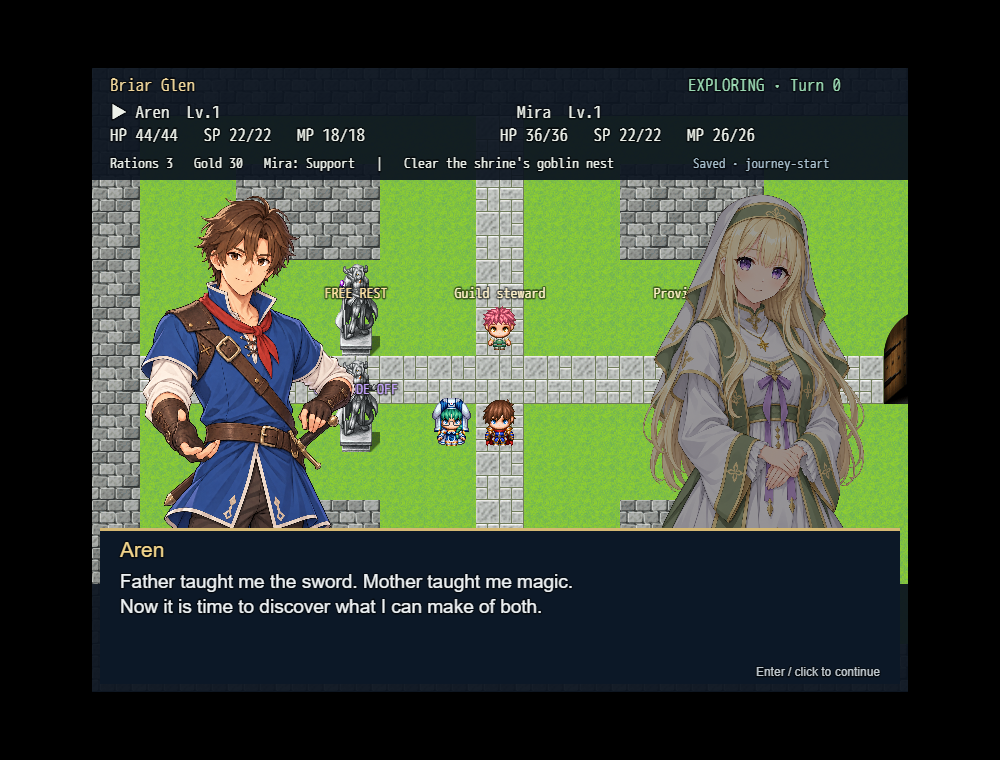
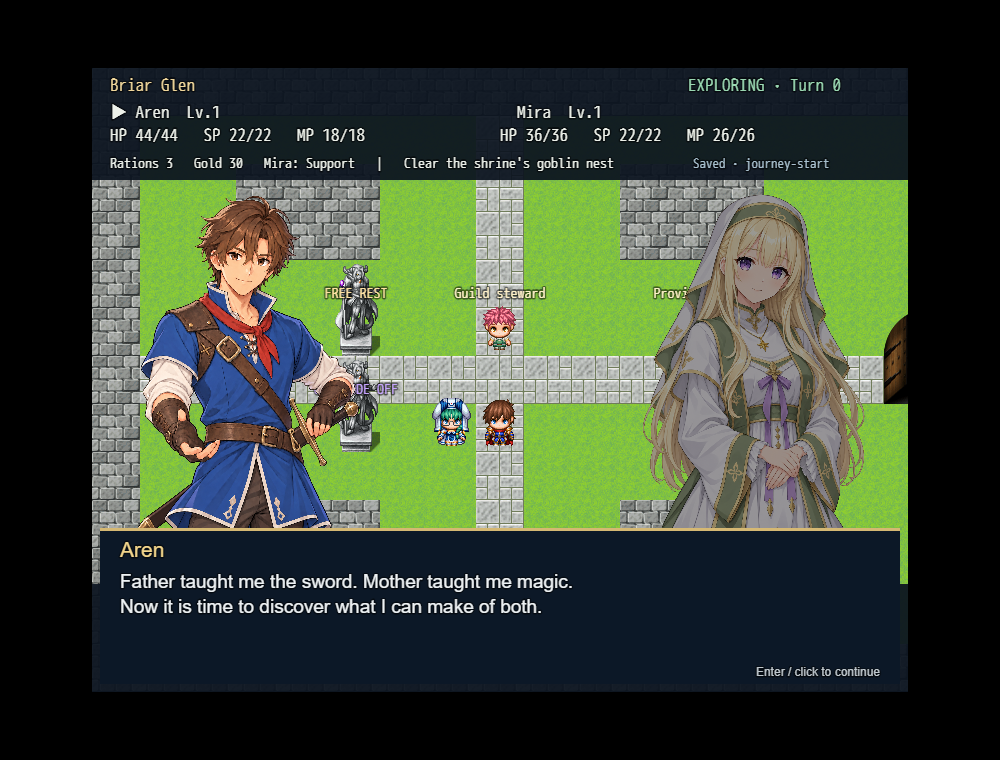
Use approved enlarged longsword portrait for Aren

diff --git a/src/js/plugins/FirstJourneyPresentation.js b/src/js/plugins/FirstJourneyPresentation.js
@@ -10,7 +10,7 @@
     "use strict";
     const R = FirstJourneyRules;
     const current = () => $gameSystem._firstJourney;
-    const portraits = { Aren: "ArenPortrait-v3", Mira: "MiraPortrait", Steward: "VillagerMalePortrait", Provisioner: "VillagerFemalePortrait" };
+    const portraits = { Aren: "ArenPortrait-v4", Mira: "MiraPortrait", Steward: "VillagerMalePortrait", Provisioner: "VillagerFemalePortrait" };
     const position = unit => ({ x: $gameMap.adjustX(unit.x) * 48 + 24, y: $gameMap.adjustY(unit.y) * 48 + 20 });
     const directions = { down: [0, 1], left: [-1, 0], right: [1, 0], up: [0, -1] };
     function wrapped(bitmap, text, x, y, width, lineHeight = 29) {

diff --git a/Addons/FirstJourneyArt/Aren-longsword-v4.md b/Addons/FirstJourneyArt/Aren-longsword-v4.md
@@ -1,0 +1,16 @@
+# Aren enlarged longsword (v4)
+
+Source: `src/img/pictures/ArenPortrait-v3.png` (preserved).
+Final runtime asset: `src/img/pictures/ArenPortrait-v4.png`.
+Method: built-in image generation, precise-object editing.
+Selection: the user explicitly selected the second generated image from this revision round, with the enlarged hilt and visible gold scabbard tip at lower left. Later candidates were not adopted.
+Generated output identifier: `exec-ae971174-668d-460c-a50f-21a058c44a72.png`.
+The shared `assets/` library was not modified. Dialogue now uses v4.
+
+## First-pass prompt
+
+Use case: precise-object-edit. Edit target: attached Aren portrait. Correct the sword geometry and scale. This is a full-sized longsword worn at his anatomical LEFT waist, on viewer RIGHT, sheathed diagonally BEHIND his hips. The existing sword is too small and its visible scabbard tip is not on the hilt axis. REMOVE the old sword entirely and redraw one much larger, geometrically straight sheathed longsword. Establish one single ruler-straight centerline: on the 1024x1536 composition, pommel center approximately (965,930), crossguard center (735,1110), scabbard tip approximately (40,1654), extending past the lower-left/bottom crop if needed. The grip and blade/scabbard centerline must be collinear with precisely that diagonal slope. The scabbard should emerge from behind his viewer-left hip along that SAME line and continue toward the bottom-left, not end early like a dagger. Grip roughly 25–30 cm, blade about 90–100 cm in character scale; substantial 25 cm crossguard perpendicular to the axis; a broad dark leather scabbard with gold fittings. Most of the middle of the weapon is fully OCCLUDED by Aren's opaque waist and tunic. No scabbard across the front of his belt, stomach or thighs. The pommel is on viewer right, tip down and to viewer left. His left hand rests naturally near the hilt, adjust only this hand/forearm as necessary. Preserve exact face, hairstyle, expression, costume, red scarf, shoulder strap, outstretched right hand, body scale, anime style, shading, and framing. Preserve actual transparent alpha background and opaque character interior. No guide lines, text, scenery, second sword or fake transparency. Prioritize clear large sword proportions and exact straight-axis alignment over showing the whole tip inside the crop.
+
+## Selected second-image prompt
+
+Precise-object-edit of this exact portrait. Fix ONLY the visible lower-left scabbard section and tip. The hilt at viewer-right is now the correct size: leave that hilt and Aren UNCHANGED. Its pommel center is approximately (985,970), grip center (880,1032), crossguard center (780,1092) in this 1024x1536 image. Those points define the sword's single straight centerline. EXTEND THAT EXACT CENTERLINE down-left behind the body: at x=200 the centerline must be near y=1436; at x=50 it must be near y=1525; the tip may extend beyond the bottom image boundary. The existing visible scabbard emerges much too HIGH near (270,1280), creating a bent sword. REMOVE that entire high scabbard section and its tip; restore transparent background there. Redraw the scabbard LOWER, so it emerges from behind the lower-left hem/thigh around (170,1454) and continues left-down to the bottom crop. Keep its two edges parallel to the existing grip axis, with gold end cap only if it fits; do not bend the sword just to fit the tip. The missing middle is hidden entirely behind Aren's blue tunic. Geometry is paramount: pommel, grip, guard center and scabbard center/tip must form ONE ruler-straight line, despite occlusion. No front blade/scabbard, no new weapon. Preserve everything else exactly, including face, costume, both hands, hilt, pose, scale, framing and genuine alpha transparency.

diff --git a/Addons/FirstJourneyArt/ART_SOURCES.md b/Addons/FirstJourneyArt/ART_SOURCES.md
@@ -1,7 +1,7 @@
 # Portrait sources and prompts
 
-Aren's current runtime portrait is `src/img/pictures/ArenPortrait-v3.png`.
-See [the longsword correction](Aren-longsword-edit.md) for the source and final edit prompt.
+Aren's current runtime portrait is `src/img/pictures/ArenPortrait-v4.png`.
+See [the enlarged longsword correction](Aren-longsword-v4.md) for the source and final edit prompt.
 
 All four portraits were generated with the built-in image generation tool for this project. No reference images were downloaded into the game. Final images are under `Project1/img/pictures/`: `ArenPortrait.png`, `MiraPortrait.png`, `VillagerMalePortrait.png`, and `VillagerFemalePortrait.png`.
 
